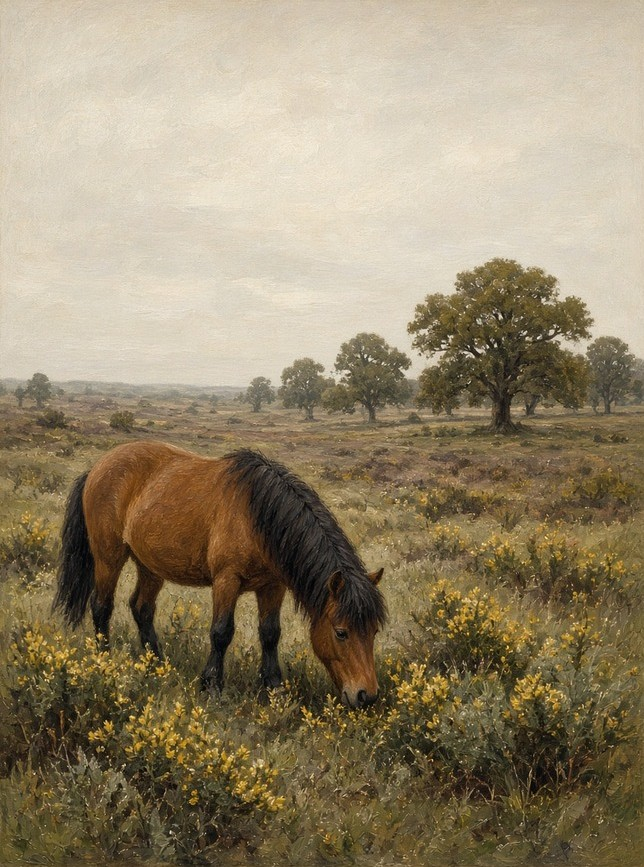
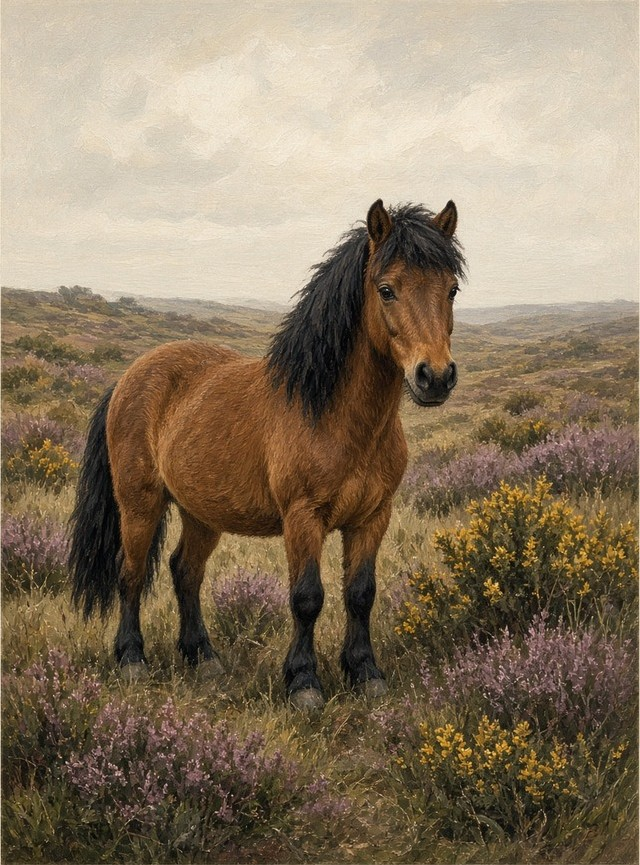
Replace 15 Hoofprint poses and drop the art line from the cards.
The credits page still lists Dukktape Studios art. The card face no longer repeats that line.

diff --git a/horse-cards/index.html b/horse-cards/index.html
@@ -5,7 +5,7 @@
 <meta name="viewport" content="width=device-width, initial-scale=1">
 <title>Hoofprint Legends | Dukktape Studios</title>
 <meta name="description" content="A printable catalog of 195 horse cards: history, racing, breeds, and one from home.">
-<link rel="stylesheet" href="style.css?v=2026103124">
+<link rel="stylesheet" href="style.css?v=2026103125">
 </head>
 <body>
 <header class="top">
@@ -66,7 +66,7 @@
   <div id="feedback-box"><script src="https://giscus.app/client.js" data-repo="dukktapestudios/dukktapestudios.github.io" data-repo-id="R_kgDOVcgvLw" data-category="General" data-category-id="DIC_kwDOVcgvL84DKFnn" data-mapping="pathname" data-strict="0" data-reactions-enabled="0" data-emit-metadata="0" data-input-position="top" data-theme="light" data-lang="en" data-loading="lazy" crossorigin="anonymous" async></script></div>
 </section>
 <footer>© 2026 Dukktape Studios</footer>
-<script src="data.js?v=2026103124"></script>
-<script src="app.js?v=2026103124"></script>
+<script src="data.js?v=2026103125"></script>
+<script src="app.js?v=2026103125"></script>
 </body>
 </html>

diff --git a/horse-cards/app.js b/horse-cards/app.js
@@ -90,11 +90,7 @@
   function artBlock(card) {
     var photo = photoById[card.id];
     if (!photo) return '<span class="artwin"><span class="needs-art">Needs art</span></span>';
-    var creditText = (photo.author && photo.author.indexOf("Art:") === 0)
-      ? photo.author
-      : "Photo: " + (photo.author || "Wikimedia Commons") + ", " + (photo.license || "");
-    return '<span class="artwin"><img class="photo" alt="' + esc(card.name) + '" src="' + photo.file + '"></span>' +
-      '<span class="credit">' + esc(creditText) + "</span>";
+    return '<span class="artwin"><img class="photo" alt="' + esc(card.name) + '" src="' + photo.file + '?v=2026103125"></span>';
   }
 
   function shoeMark(which) {
